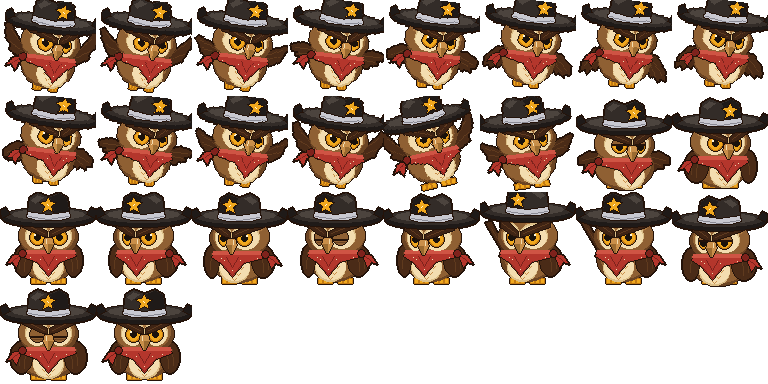
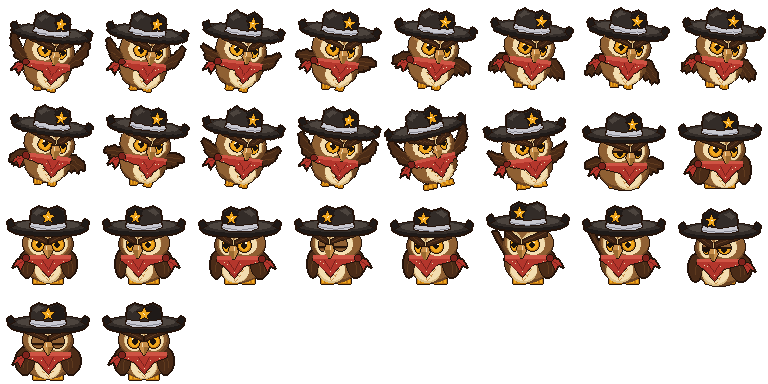
UI: Kuwa fits his frames, phone fixes

diff --git a/frontend/assets/js/index.js b/frontend/assets/js/index.js
@@ -38,7 +38,7 @@
     kuwa.style.setProperty("--k", K + "px");
     kb.style.backgroundSize = (768 * K) + "px " + (768 * K) + "px";
     var u = ke.children;
-    [[33, 40], [55, 40]].forEach(function (p, i) { u[i].style.left = p[0] * K + "px"; u[i].style.top = p[1] * K + "px"; u[i].style.width = u[i].style.height = 8 * K + "px"; });
+    [[35, 48], [54, 48]].forEach(function (p, i) { u[i].style.left = p[0] * K + "px"; u[i].style.top = p[1] * K + "px"; u[i].style.width = u[i].style.height = 7 * K + "px"; });   /* his eyes, as drawn at FIT .85 in kuwa.py */
   }
   function wideOff(ms) {                                  /* the phone's full-screen town glides up into its band */
     if (!wide) return; wide = false; scene.style.transform = "none";
@@ -191,7 +191,7 @@
   var lastHoot = 0;
   clerk.addEventListener("click", function (e) {
     var r = clerk.getBoundingClientRect();
-    if (e.clientY - r.top < r.height * 0.36) { swapHat(); return; }          /* on his hat: a different hat */
+    if (e.clientY - r.top < r.height * 0.46) { swapHat(); return; }          /* on his hat: a different hat */
     if (Date.now() - lastHoot > 1500) { lastHoot = Date.now(); Sound.fx("hoot", 0.8); }
   });
   function swapHat() {

diff --git a/design/kuwa/kuwa.py b/design/kuwa/kuwa.py
@@ -9,9 +9,26 @@ TN=h('#c98f4a'); TD=h('#9a6a30'); C=h('#f3ddb0'); CD=h('#dcbf88')
 A=h('#f0a81e'); AD=h('#c47a12'); K=h('#1a120c'); W=h('#fff6dc')
 R=h('#b4362c'); RD=h('#7e221c'); RL=h('#cf5444')
 S=96
+# He is drawn a little smaller than his 96 x 96 cell (FIT, about his feet), so the brim of his hat and his wing tips
+# keep a clear edge instead of running into the side of the cell and being cut off there.
+FIT=float(os.environ.get('KUWA_FIT','0.85'))
+def T(x,y): return (48+(x-48)*FIT, 96-(96-y)*FIT)
+class Pen:
+    """ImageDraw, with every coordinate passed through T()."""
+    def __init__(s,im): s.d=ImageDraw.Draw(im)
+    def _pts(s,pts): return [T(x,y) for x,y in pts]
+    def _box(s,b): a=T(b[0],b[1]); c=T(b[2],b[3]); return [a[0],a[1],c[0],c[1]]
+    def ellipse(s,b,**k): s.d.ellipse(s._box(b),**k)
+    def rectangle(s,b,**k): s.d.rectangle(s._box(b),**k)
+    def chord(s,b,a0,a1,**k): s.d.chord(s._box(b),a0,a1,**k)
+    def arc(s,b,a0,a1,**k): s.d.arc(s._box(b),a0,a1,**k)
+    def pieslice(s,b,a0,a1,**k): s.d.pieslice(s._box(b),a0,a1,**k)
+    def polygon(s,pts,**k): s.d.polygon(s._pts(pts),**k)
+    def line(s,pts,**k): s.d.line(s._pts(pts),**k)
+    def point(s,xy,c=None,**k): s.d.point(T(*xy),c,**k)
 class Cv:
     def __init__(s):
-        s.im=Image.new('RGBA',(S,S),(0,0,0,0)); s.d=ImageDraw.Draw(s.im)
+        s.im=Image.new('RGBA',(S,S),(0,0,0,0)); s.d=Pen(s.im)
     def E(s,box,f,ol=None,dy=0): s.d.ellipse([box[0],box[1]+dy,box[2],box[3]+dy],fill=f,outline=ol)
     def P(s,pts,f,ol=None,dy=0): s.d.polygon([(x,y+dy) for x,y in pts],fill=f,outline=ol)
     def L(s,pts,f,w=1,dy=0): s.d.line([(x,y+dy) for x,y in pts],fill=f,width=w)
